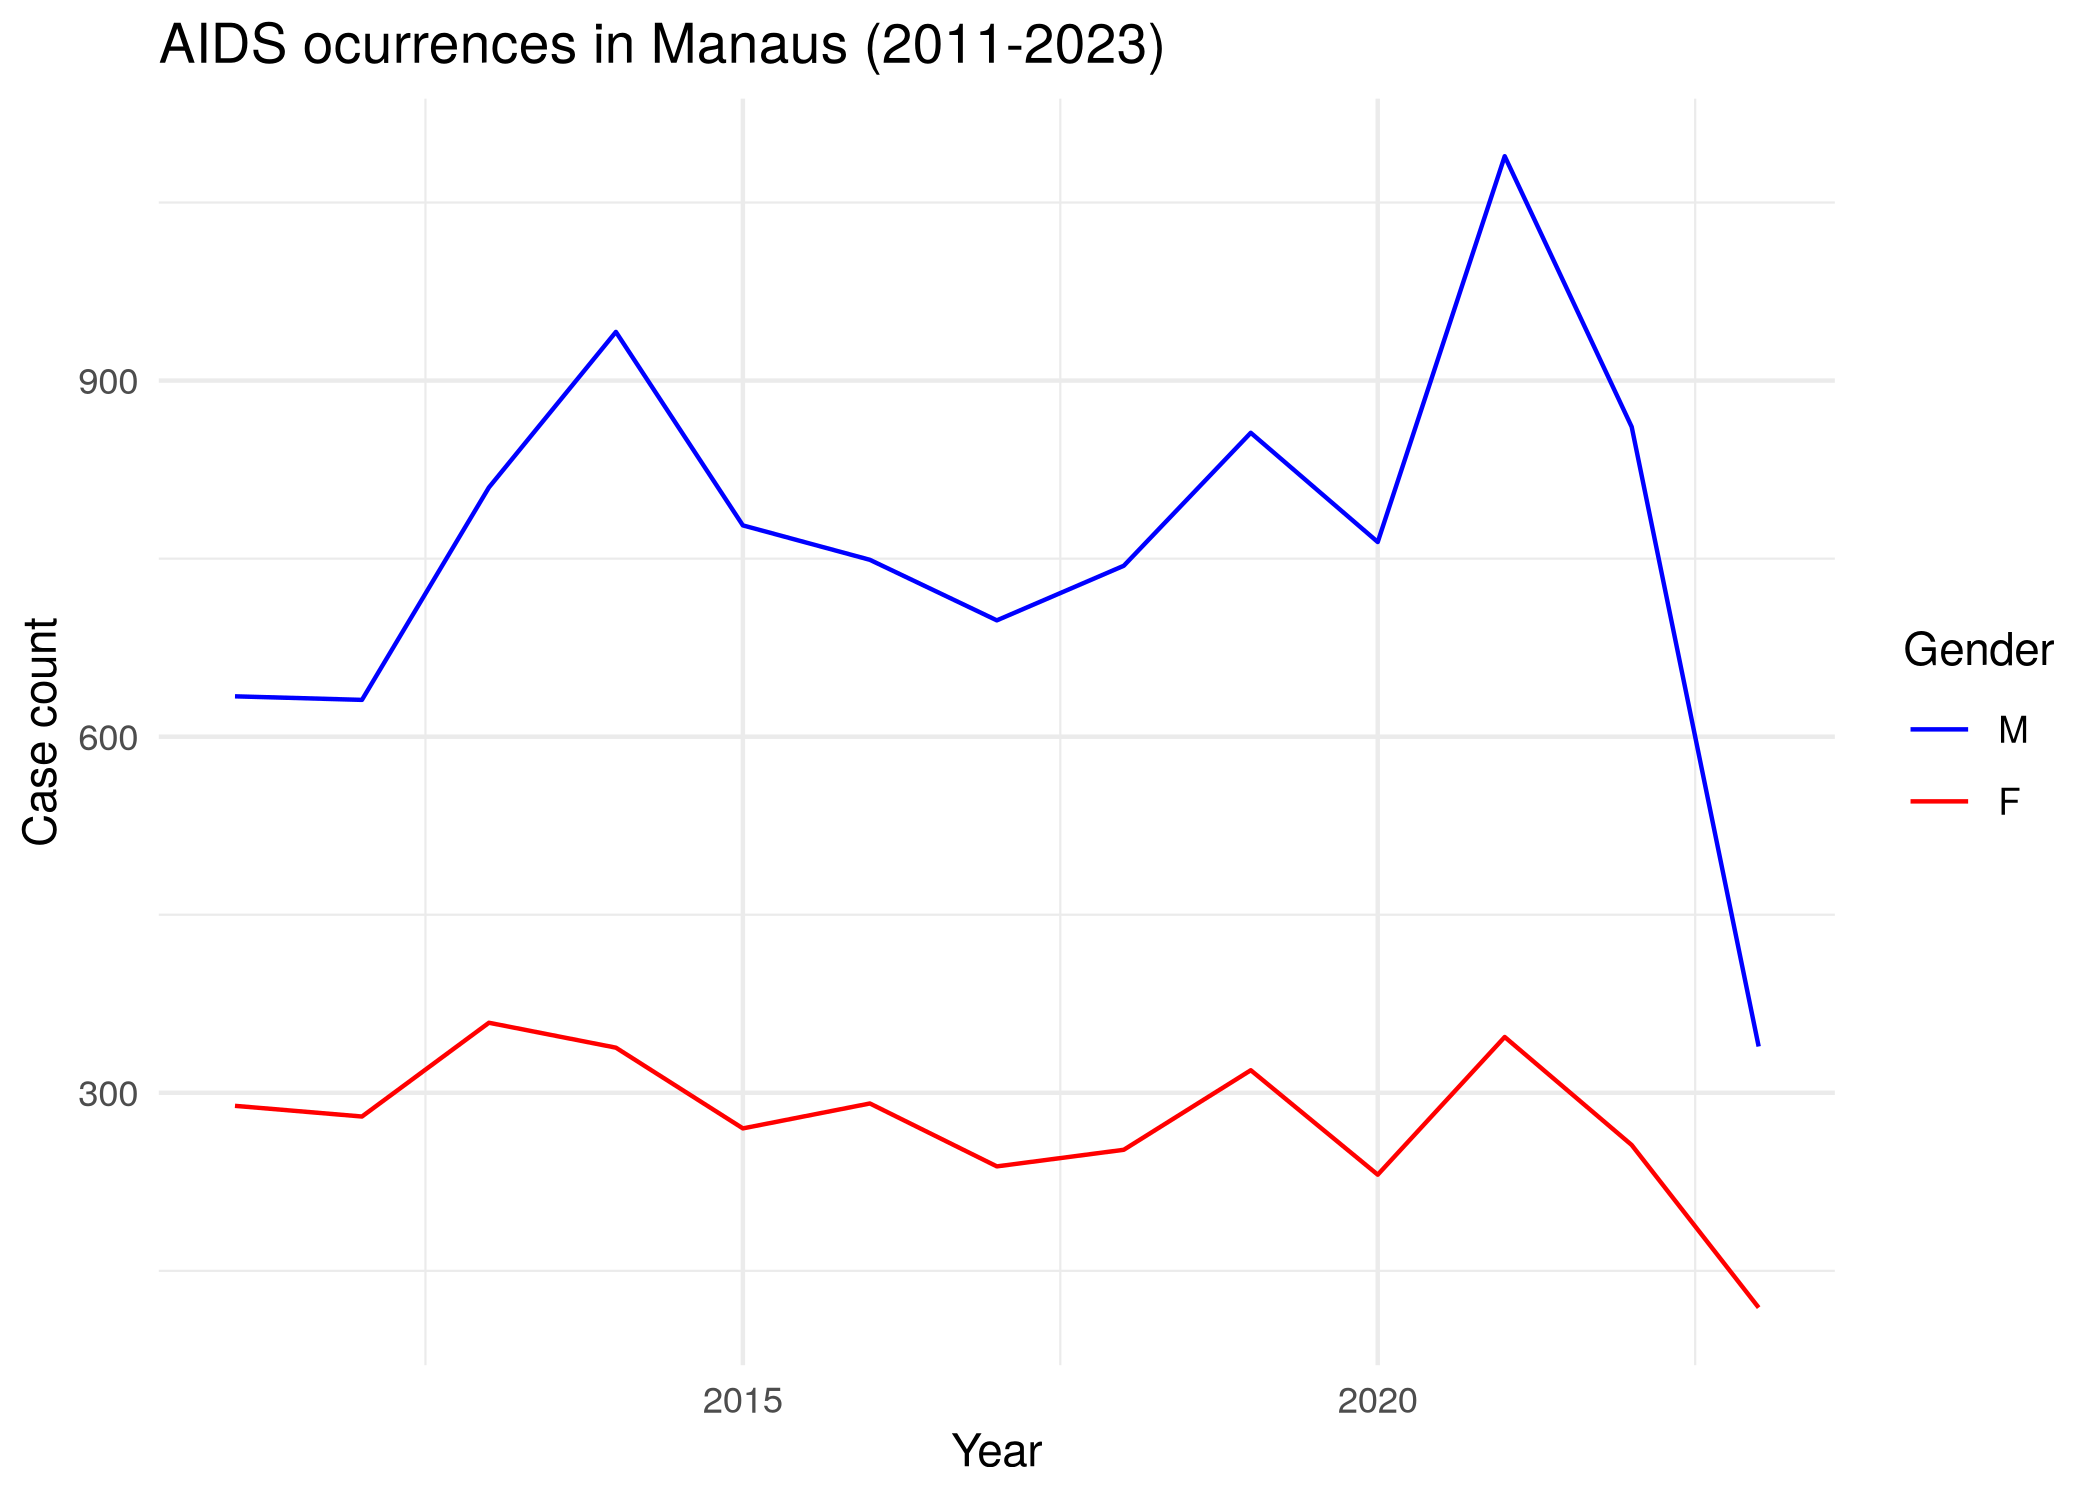
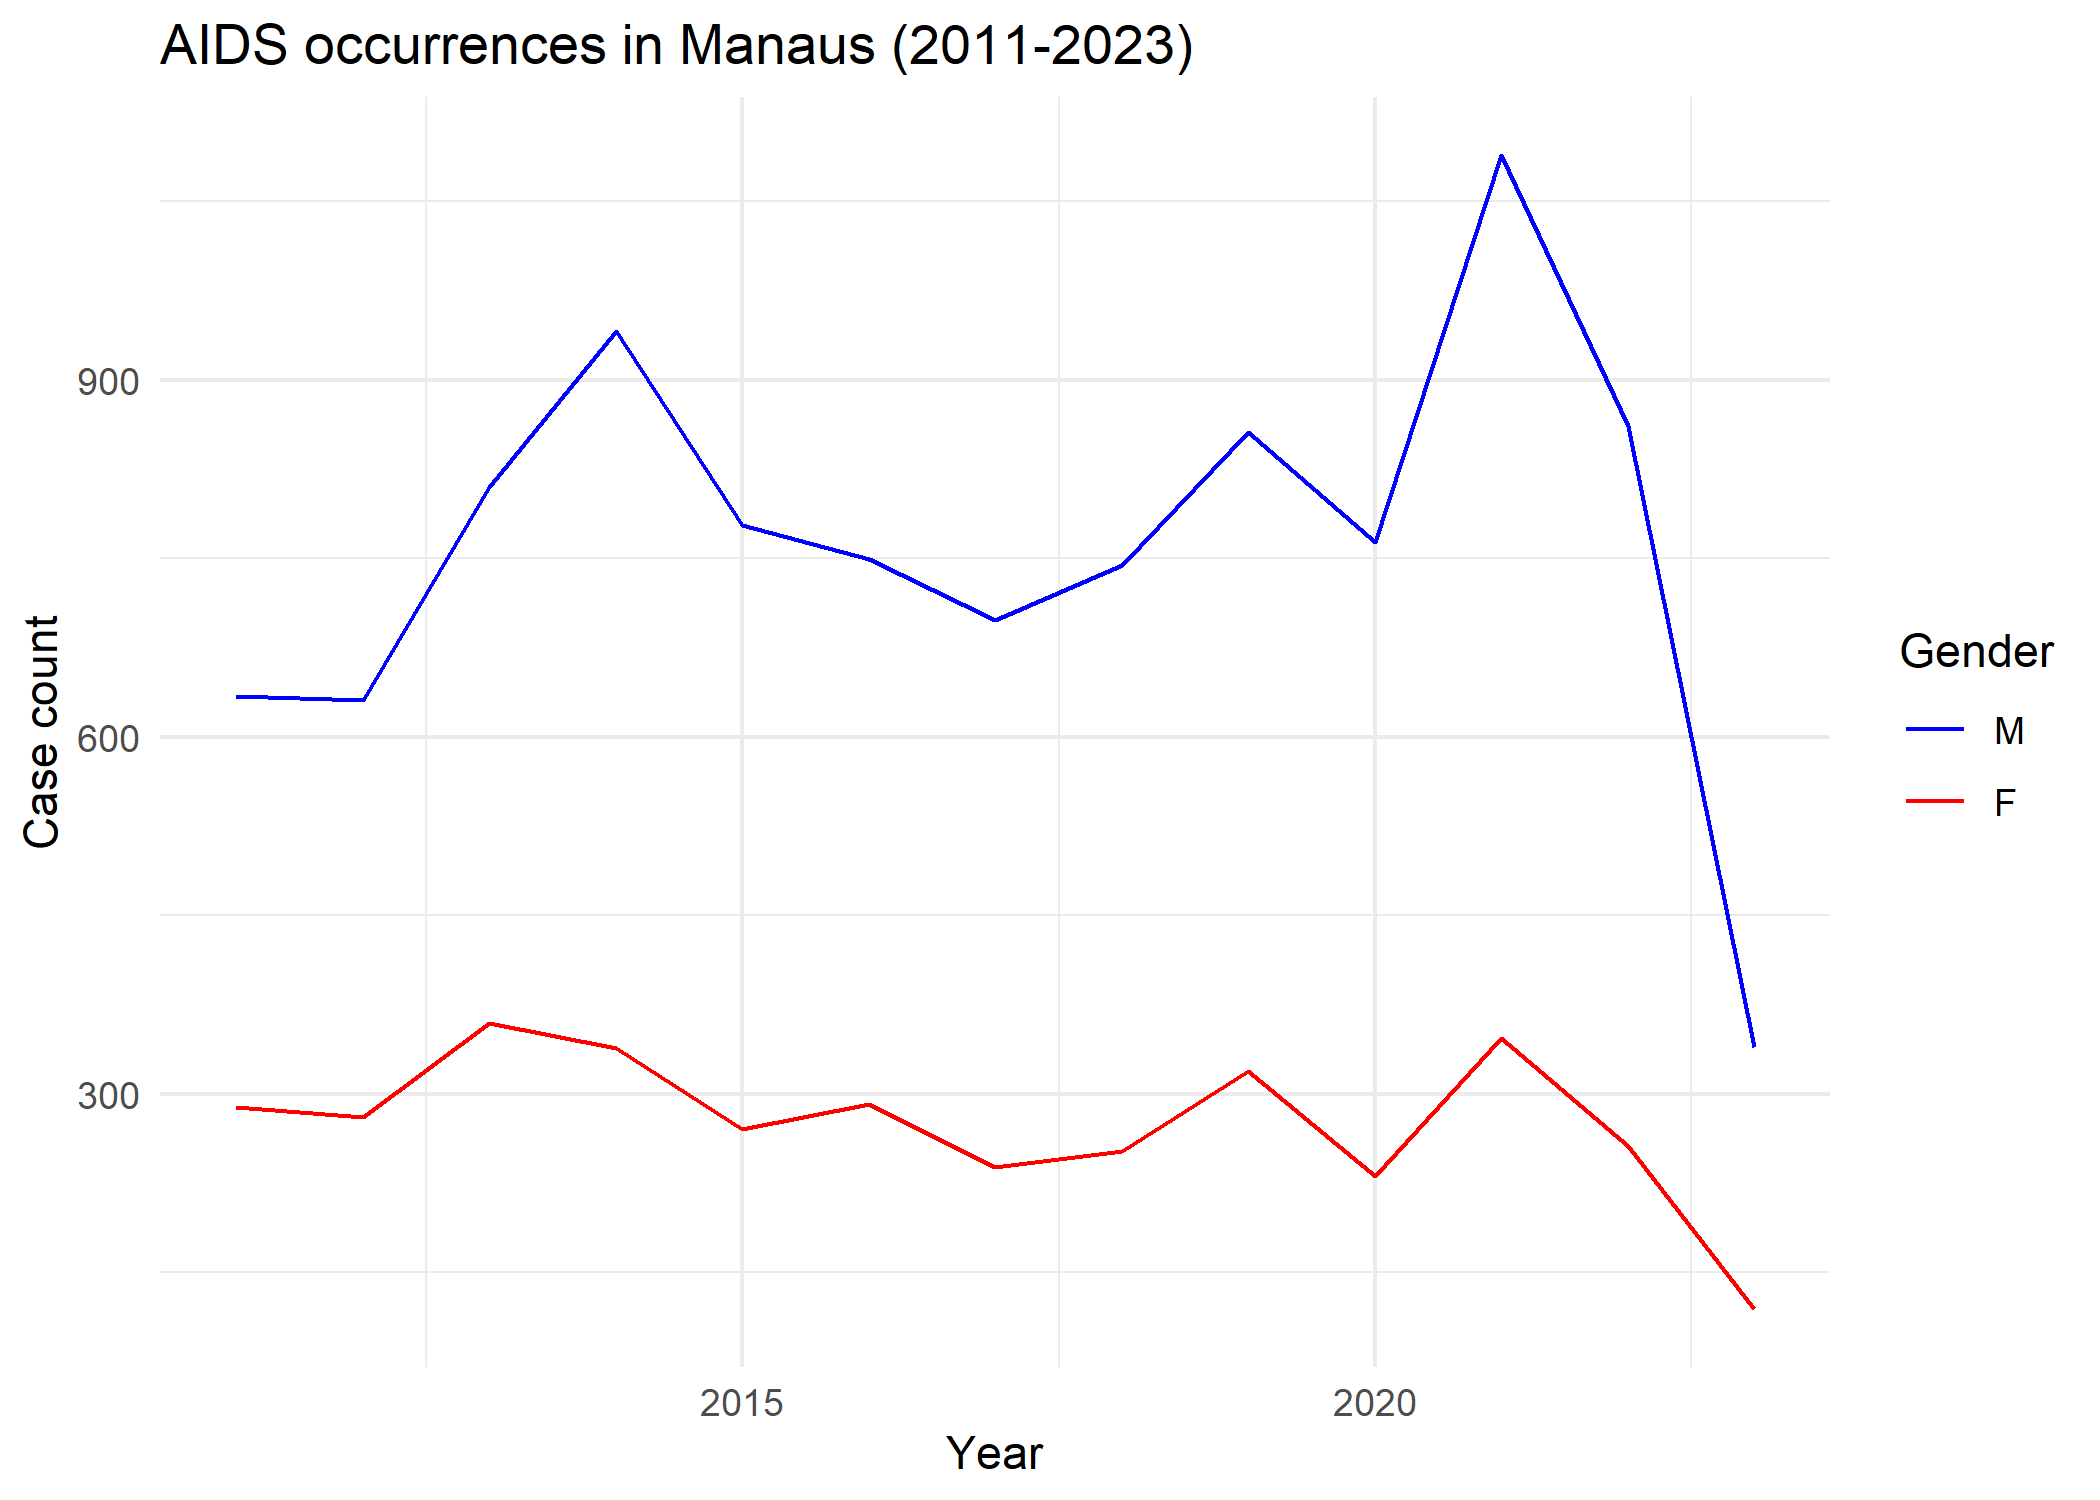
docs(README): English main README updated

diff --git a/README.md b/README.md
@@ -1,58 +1,96 @@
+
 <!-- README.md is generated from README.Rmd. Please edit that file -->
 
 # amazonasdatahub <img src="man/figures/logo.png" align="right" height="139" alt="Amazonasd DataHub logo">
 
 <!-- badges: start -->
+
 <!-- badges: end -->
 
-Versão em Português ===========
+The goal of `amazonasdatahub` is to aggregate databases from the State
+of Amazonas (AM), Brazil, for conducting studies and preparing
+educational materials, as well as to facilitate access to organized and
+processed data, thereby supporting research and teaching and enabling
+the application of statistical methods.
 
-The goal of amazonasdatahub is to gather various data sets from the
-state of Amazonas (AM), Brazil, to which Deep Learning can be applied.
+Full documentation of both Python and R versions is available in the
+following languages/Documentação das versões em Python e R estão
+disponíveis nos seguintes idiomas:
 
-With this open-source R package, you will have access to various
-datasets to apply Deep Learning and statistical methods.
+- [English](https://onelsoncarvalho/amazonasdatahubsite/en);
+- [🇧🇷 Português (BR)](https://onelsoncarvalho/amazonasdatahubsite);
+
+R only documentation and vignettes:
+
+- [English](https://onelsoncarvalho/amazonasdatahub);
+- [🇧🇷 Português (BR)](https://onelsoncarvalho/amazonasdatahub/br);
+
+## Overview
+
+This `amazonasdatahub` package provides databases from various types and
+sources, all of which concern the State of Amazonas.
+
+List of available datasets:
+
+| Dataset | Area | Source |
+|:---|:--:|:---|
+| agriculture_amazonas | Agriculture and Livestock | Institute of Agricultural and Sustainable Forestry Development of the State of Amazonas - 2024 |
+| aids_amazonas | Health | Department of HIV, AIDS, Tuberculosis, Viral Hepatitis, and Sexually Transmitted Infections, 2024 |
+| gdp_amazonas | Economy | Scientific Journal of Applied Social and Clinical Science - TIME SERIES ANALYSIS FOR THE QUARTERLY GROSS DOMESTIC PRODUCT OF AMAZONAS |
+| humidity_manaus | Climate | NASCIMENTO, Leonardo Brandão Freitas; LIMA, Max Sousa; DUCZMAL, Luiz H. P-min-stable regression models for time series with extreme values of limited range. Environmetrics, Issue 2, v. 36, 2025. |
+| malaria_amazonas | Health | Lais Baroni, M. P. (2020). An Integrated Dataset of Malaria Notifications in the Legal Amazon (Dataset). Synapse. <https://doi.org/10.7303/SYN21552203> |
+| prf_amazonas | Road Safety | Brasil. Polícia Rodoviária Federal (PRF). Dados Abertos da PRF: Acidentes de Trânsito |
+| rionegro_amazonas | Environment | Porto de Manaus. Nível do Rio Negro |
+| srl_muni | Education | ALMEIDA, Thiago da Cruz de. Physical Literacy e desempenho em leitura de escolares amazônicos: um estudo de associação. 2024. 104 f. Dissertação (Mestrado em Educação) - Universidade Federal do Amazonas, Manaus, 2024. |
 
 ## Installation
 
-To install amazonasdatahub, you need to have the following tools
+To install `amazonasdatahub`, you need to have the following tools
 installed on your computer or development environment:
 
-- R version 4.41.1 (2024-06-14) – “Race for Your Life”;
-- devtools package from R.
+- R version 4.41.1 (2024-06-14) or above;
+- `remotes` package from R.
 
-You can install the development version of amazonasdatahub from
-[GitHub](https://github.com/) with:
+You can install the development version of `amazonasdatahub` with:
 
-    # Install devtools package
-    install.packages("devtools")
+``` r
+# Install remotes package
+install.packages("remotes")
 
-    # Load devtools
-    library(devtools)
+# Load remotes
+library(remotes)
 
-    # installing amazonasdatahub
-    devtools::install_github("onelsoncarvalho/amazonasdatahub")
+# installing amazonasdatahub
+remotes::install_github("onelsoncarvalho/amazonasdatahub")
+```
 
-## Usage
+## Usage and Examples
 
-Once the `amazonasdatahub` is installed, use library() or require() to
-load the package.
+### Loading `amazonasdatahub`
 
-    library(amazonasdatahub)
+Use `library()` or `require()` to load the package.
 
-You can see the documentation of each dataset using the help operator
+``` r
+library(amazonasdatahub)
+```
+
+You can check the documentation of each dataset using the help operator
 “?”.
 
-    ?agriculture_idam
-    ?aids_amazonas
-    ?gdp_amazonas
-    ?humidity_manaus
-    ?malaria_amazonas
-    ?prf_amazonas
-    ?rionegro_amazonas
-    ?slr_muni
+``` r
+?agriculture_amazonas
+?aids_amazonas
+?gdp_amazonas
+?humidity_manaus
+?malaria_amazonas
+?prf_amazonas
+?rionegro_amazonas
+?slr_muni
+```
 
-## Example
+### Usage examples
+
+#### Disease occurrence
 
 The dataset `aids_amazonas` contains data of the AIDS occurrences in
 each municipality from Amazonas.
@@ -63,23 +101,64 @@ sex/gender of each observation. To do this, we will use the dplyr
 package to structure the data and the ggplot2 package to create and
 customize the chart.
 
-    # Loading dplyr and ggplot to structure the data
-    require(dplyr)
-    require(ggplot2)
+``` r
+# Loading dplyr and ggplot to structure the data
+require(dplyr)
+require(ggplot2)
+```
 
-    # Filtering by municipality and plotting case count by gender
-    aids_amazonas %>%
-      filter(name_muni == "Manaus") %>%
-      group_by(gender) %>%
-      ggplot(aes(x = year, y = cases, group = gender, color = gender)) +
-      geom_line() +
-      scale_color_manual(values = c("blue", "red")) +
-      theme_minimal() +
-      labs(
-        title = "AIDS ocurrences in Manaus (2011-2023)",
-        x = "Year",
-        y = "Case count",
-        color = "Gender"
-      )
+``` r
+# Filtering by municipality and plotting case count by gender
+aids_amazonas %>%
+  filter(name_muni == "Manaus") %>%
+  group_by(gender) %>%
+  ggplot(aes(x = year, y = cases, group = gender, color = gender)) +
+  geom_line() +
+  scale_color_manual(values = c("blue", "red")) +
+  theme_minimal() +
+  labs(
+    title = "AIDS occurrences in Manaus (2011-2023)",
+    x = "Year",
+    y = "Case count",
+    color = "Gender"
+  )
+```
 
 <img src="man/figures/README-unnamed-chunk-6-1.png" alt="" width="100%" />
+
+#### Time Series
+
+The `humidity_manaus` consists of the minimum relative humidity observed
+in the city of Manaus from January 2009 to December 2020. We can
+visualize the time series of the relative humidity during this time
+interval.
+
+Using `dplyr`, it is possible to create a date column, which will be
+composed of the month and year. Using`ggplot2`, the time series chart
+can be plotted.
+
+``` r
+# Loading dplyr and ggplot to structure the data
+require(dplyr)
+require(ggplot2)
+
+# Creating date column and plotting the time series
+humidity_manaus %>%
+  mutate(date = as.Date(paste0(year, "-", month, "-","01"))) %>%
+  ggplot(aes(x = date, y = rh)) +
+  geom_line() +
+  theme_minimal() +
+  labs(
+    title = "Relative Humidity of Amazonas",
+    x = "Date",
+    y = "Relative Humidity"
+  )
+```
+
+<img src="man/figures/README-unnamed-chunk-7-1.png" alt="" width="100%" />
+
+## Citation
+
+- CARVALHO, Nelson Geraldo Aquino de; NASCIMENTO, Leonardo Brandão
+  Freitas do. **amazonasdatahub**. 2026.
+  <https://onelsoncarvalho.github.io/amazonasdatahubsite>.
